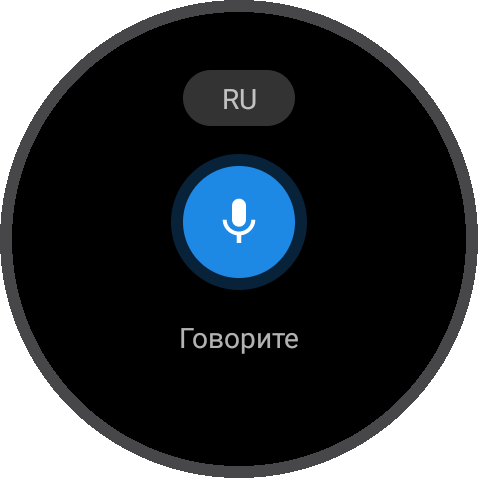
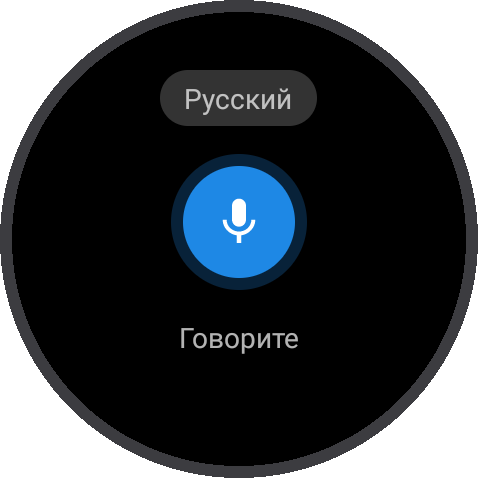
Кнопка языка «Русский / English» вместо «RU/EN»
- На экране «Говорите» язык подписан полным названием на самом языке:
  «Русский», «English».
- В сообщениях об отсутствующей модели — полное название языка в языке
  интерфейса («Модель «Русский» не скачана»).
- Подсказка на время загрузки модели укорочена до «Слушаю, текст скоро
  появится»: прежняя обрезалась краем круглого экрана.
- Скриншот и README обновлены.

Language button "Русский / English" instead of "RU/EN"

- The Speak now screen shows the language by its full native name:
  "Русский", "English".
- Missing-model messages use the full language name in the UI language
  ("The Russian model is not downloaded").
- The hint shown while the model loads is shortened to "Listening, text
  will appear shortly": the old one was cut off by the round screen.
- Screenshot and README updated.

Changed region(s): [[0.3222, 0.1464, 0.6736, 0.2636]]

diff --git a/app/src/main/java/xyz/quenix/voskvoice/ui/MainActivity.kt b/app/src/main/java/xyz/quenix/voskvoice/ui/MainActivity.kt
@@ -123,7 +123,7 @@ class MainActivity : Activity() {
         if (!ModelStore.isInstalled(this, language)) return false
         ModelStore.delete(this, language)
         ModelKeeperService.sync(this)
-        Toast.makeText(this, getString(R.string.model_deleted, getString(languageName(language))), Toast.LENGTH_SHORT).show()
+        Toast.makeText(this, getString(R.string.model_deleted, getString(language.nameRes)), Toast.LENGTH_SHORT).show()
         refresh()
         return true
     }
@@ -134,7 +134,7 @@ class MainActivity : Activity() {
         micButton.isEnabled = !micGranted
 
         for ((language, button) in modelButtons) {
-            val name = getString(languageName(language))
+            val name = getString(language.nameRes)
             button.text = when (val state = ModelDownloader.state(language)) {
                 is ModelDownloader.State.Running ->
                     if (state.percent == null) getString(R.string.model_connecting, name)
@@ -146,7 +146,7 @@ class MainActivity : Activity() {
             }
         }
 
-        languageButton.text = getString(R.string.default_language, getString(languageName(settings.language)))
+        languageButton.text = getString(R.string.default_language, getString(settings.language.nameRes))
         keepSwitch.isChecked = settings.keepLoaded
 
         voiceInputStatus.text = getString(R.string.voice_input_status, getString(voiceInputHandler()))
@@ -177,10 +177,5 @@ class MainActivity : Activity() {
     private companion object {
         const val REQUEST_MIC = 1
         const val REQUEST_TEST = 2
-
-        fun languageName(language: Language) = when (language) {
-            Language.RU -> R.string.language_ru
-            Language.EN -> R.string.language_en
-        }
     }
 }

diff --git a/app/src/main/java/xyz/quenix/voskvoice/ui/VoiceInputActivity.kt b/app/src/main/java/xyz/quenix/voskvoice/ui/VoiceInputActivity.kt
@@ -101,7 +101,7 @@ class VoiceInputActivity : Activity(), Dictation.Listener {
         text.text = ""
         if (!ModelStore.isInstalled(this, language)) {
             dictation = null
-            show(Phase.NO_MODEL, getString(R.string.voice_no_model, language.label))
+            show(Phase.NO_MODEL, getString(R.string.voice_no_model, getString(language.nameRes)))
             return
         }
         show(Phase.LOADING, getString(R.string.voice_starting))
@@ -126,7 +126,7 @@ class VoiceInputActivity : Activity(), Dictation.Listener {
         var next = language.next()
         while (next != language && next !in installed) next = next.next()
         if (next == language) {
-            Toast.makeText(this, getString(R.string.voice_only_one_model, language.next().label), Toast.LENGTH_SHORT).show()
+            Toast.makeText(this, getString(R.string.voice_only_one_model, getString(language.next().nameRes)), Toast.LENGTH_SHORT).show()
             return
         }
         language = next
@@ -189,7 +189,7 @@ class VoiceInputActivity : Activity(), Dictation.Listener {
         dictation = null
         when (error) {
             Dictation.Error.NO_SPEECH -> show(Phase.RETRY, getString(R.string.voice_no_speech))
-            Dictation.Error.NO_MODEL -> show(Phase.NO_MODEL, getString(R.string.voice_no_model, language.label))
+            Dictation.Error.NO_MODEL -> show(Phase.NO_MODEL, getString(R.string.voice_no_model, getString(language.nameRes)))
             Dictation.Error.BUSY -> show(Phase.RETRY, getString(R.string.voice_busy))
             Dictation.Error.AUDIO -> show(Phase.RETRY, getString(R.string.voice_audio_error))
         }

diff --git a/app/src/main/java/xyz/quenix/voskvoice/speech/Language.kt b/app/src/main/java/xyz/quenix/voskvoice/speech/Language.kt
@@ -1,5 +1,6 @@
 package xyz.quenix.voskvoice.speech
 
+import xyz.quenix.voskvoice.R
 import java.util.Locale
 
 /**
@@ -11,14 +12,19 @@ import java.util.Locale
 enum class Language(
     /** Short code, also the model folder name on the watch: `files/models/<code>`. */
     val code: String,
-    /** Label on the language button. */
+    /**
+     * Label on the language switch, written in the language itself ("Русский", "English"), as language
+     * switches usually are, so it reads the same whatever the UI language.
+     */
     val label: String,
+    /** Full name in the UI language, for the setup screen and messages. */
+    val nameRes: Int,
     val modelUrl: String,
     /** Download size, only for the UI. */
     val downloadMb: Int,
 ) {
-    RU("ru", "RU", "https://alphacephei.com/vosk/models/vosk-model-small-ru-0.22.zip", 45),
-    EN("en", "EN", "https://alphacephei.com/vosk/models/vosk-model-small-en-us-0.15.zip", 40);
+    RU("ru", "Русский", R.string.language_ru, "https://alphacephei.com/vosk/models/vosk-model-small-ru-0.22.zip", 45),
+    EN("en", "English", R.string.language_en, "https://alphacephei.com/vosk/models/vosk-model-small-en-us-0.15.zip", 40);
 
     fun next(): Language = entries[(ordinal + 1) % entries.size]
 

diff --git a/README.md b/README.md
@@ -30,7 +30,7 @@
 - **Нажали микрофон — часы вибрируют — говорите.** Фраза заканчивается сама после паузы,
   нажатие на микрофон заканчивает раньше, свайп отменяет.
 - **Без интернета.** Звук не покидает часы. Интернет нужен только один раз, чтобы скачать модель.
-- **Русский и английский**, переключаются кнопкой `RU/EN` прямо на экране записи.
+- **Русский и английский**, переключаются кнопкой **Русский / English** прямо на экране записи.
 - **Мгновенный старт:** модель заранее загружена в память (режим можно выключить).
 
 ---
@@ -167,7 +167,7 @@ adb shell settings put secure voice_recognition_service xyz.quenix.voskvoice/.se
   (alphacephei.com).
 - **Удалить:** долгое нажатие на модель.
 - **Язык по умолчанию:** кнопка **По умолчанию** на главном экране. На экране записи язык
-  переключается кнопкой `RU/EN`, и последний выбранный язык становится языком по умолчанию. Если
+  переключается кнопкой **Русский / English**, и последний выбранный язык становится языком по умолчанию. Если
   приложение само просит определённый язык, берётся он (если его модель скачана).
 
 ### Держать модель в памяти
@@ -231,7 +231,7 @@ apksigner verify --print-certs VoskVoice.apk
 по-разному). Если такого пункта нет, удалите и снова установите VoskVoice: когда появляется новое
 приложение для голосового ввода, Android снова показывает выбор. Модели придётся скачать заново.
 
-**«Нет модели RU. Нажмите, чтобы скачать».**
+**«Модель «Русский» не скачана. Нажмите, чтобы скачать».**
 Модель выбранного языка не скачана. Нажмите на надпись или скачайте модель на главном экране.
 
 **Модель не скачивается.**

diff --git a/README.en.md b/README.en.md
@@ -32,7 +32,7 @@ replies to messages, notes.
 - **Tap the mic — the watch buzzes — speak.** The phrase ends by itself after a pause; tapping
   the mic ends it earlier, swiping cancels.
 - **Offline.** Audio never leaves the watch. Internet is needed only once, to download a model.
-- **Russian and English**, switched with the `RU/EN` button right on the recording screen.
+- **Russian and English**, switched with the **Русский / English** button right on the recording screen.
 - **Instant start:** the model is preloaded into memory (can be turned off).
 
 ---
@@ -169,7 +169,7 @@ punctuation. The first letter is capitalized automatically.
   site (alphacephei.com).
 - **Delete:** long-press a model.
 - **Default language:** the **Default** button on the main screen. On the recording screen the
-  `RU/EN` button switches languages, and the last one chosen becomes the default. If an app asks
+  **Русский / English** button switches languages, and the last one chosen becomes the default. If an app asks
   for a specific language, that one is used (if its model is downloaded).
 
 ### Keep model in memory
@@ -232,7 +232,7 @@ Gboard and "Always" were chosen in the chooser. Reset it in the watch settings:
 If there is no such item, uninstall and reinstall VoskVoice: when a new voice input app appears,
 Android shows the chooser again. Models will have to be downloaded again.
 
-**"No RU model. Tap to download".**
+**"The Russian model is not downloaded. Tap to download".**
 The model for the selected language is not downloaded. Tap the message or download the model on
 the main screen.
 
